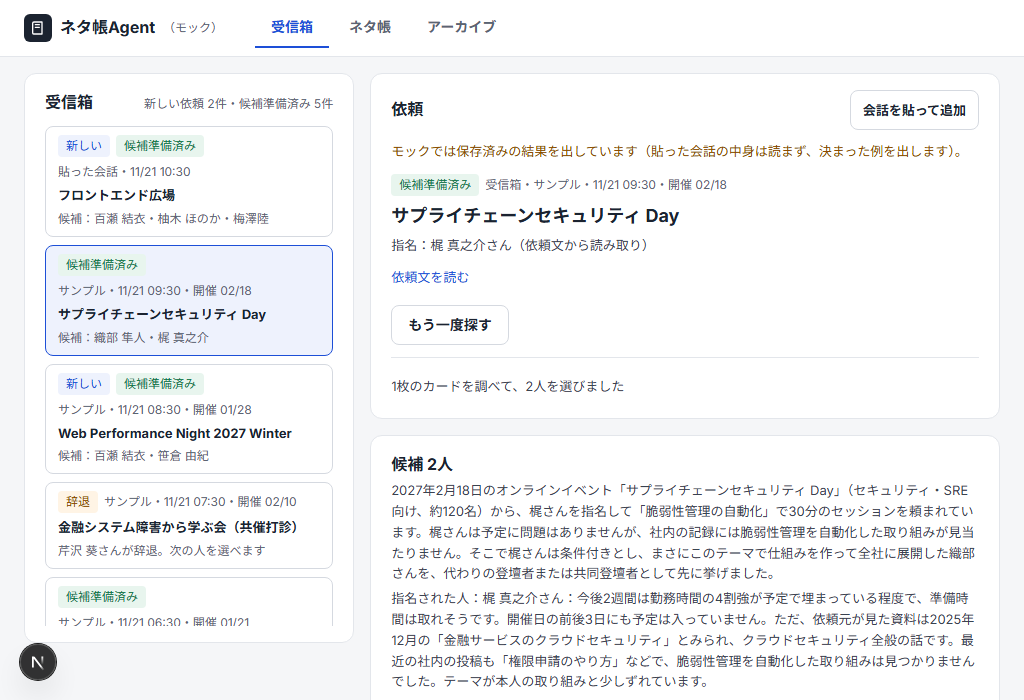
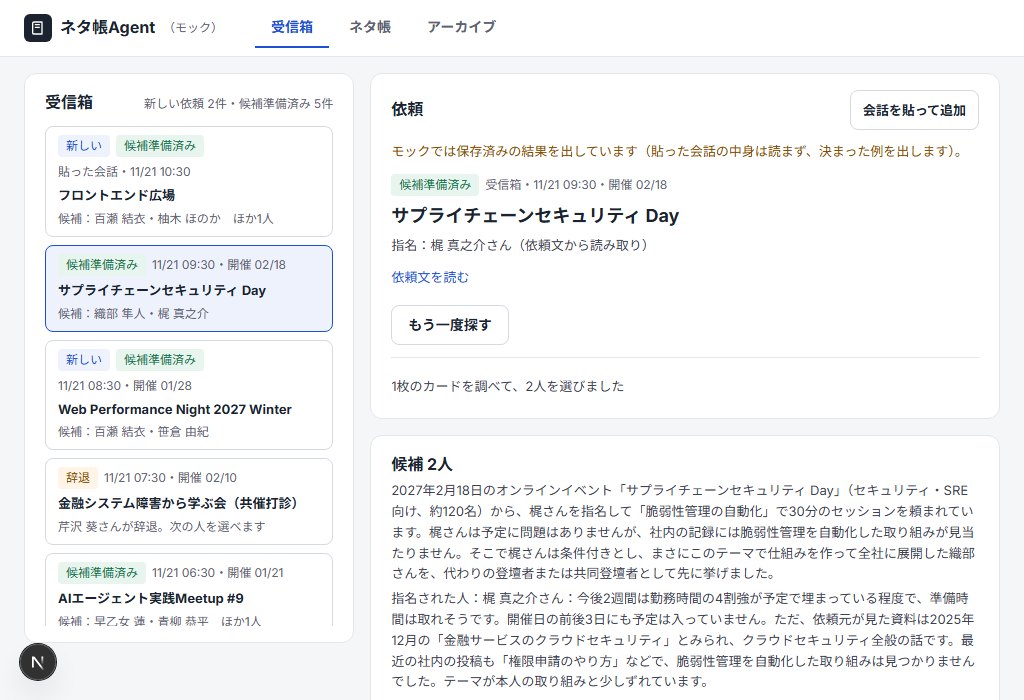
迷う・読みにくいところを見た目だけで直す（docs/ux_review.md の「できれば」）
- 受信箱の一覧：「サンプル」の出どころを出さない、候補は2人まで＋「ほかN人」、準備中は「新しい依頼（読み取り中）」、行に読み上げ用の名前
- 声かけの画面：「声をかける前に」を声かけ文の上に、「最初の下書きに戻す」、入力欄は中身に合わせて伸ばす
- カード詳細：新しいテーマ案は「話せるテーマ案に加える／加えない」
- アンケートの声：行ごとの印と件数の重複を外し、見出しの下の1文だけに
- イベントの改善点：人を攻撃する言葉は隠し、「原文を見る」で開く
- 出し先の注意点：2つまで見せて残りは開く
- 担当者未定のネタ：同じ事業部の人を上に、外のページへのリンクに ↗
- ネタ帳を更新の作業ログ：終わったら最後の1行にたたむ
- 人の画面の見出し：「初登壇・登壇0回」、所属と役職の重複を出さない
- ui-guidelines：人の一覧の1行・確認済みの言い分け・作った人向けの文・読み込み中を今の画面に合わせる
- スクリーンショット：docs/screenshots/ux-polish/（before・after）

Changed region(s): [[0.0312, 0.36, 0.3125, 0.9], [0.5312, 0.24, 0.7188, 0.27], [0.2188, 0.3, 0.2812, 0.33]]

diff --git a/components/Inbox.tsx b/components/Inbox.tsx
@@ -29,8 +29,15 @@ function stageLine(it: BoardListItem): string {
   if (s.stage === "new") return "開いて「ネタ帳から候補を出す」を押すと、候補を準備します";
   if (s.stage === "preparing") return "Agentがネタ帳を探しています";
   if (s.stage === "error") return it.error ?? "候補を出せませんでした";
-  return it.no_fit ? "合う候補は見つかりませんでした（理由を確認できます）" : `候補：${it.candidate_names.join("・")}`;
+  if (it.no_fit) return "合う候補は見つかりませんでした（理由を確認できます）";
+  // 候補は2人まで出して「ほかN人」（名前が途中で切れないように）
+  const shown = it.candidate_names.slice(0, 2).join("・");
+  const more = it.candidate_names.length - 2;
+  return `候補：${shown}${more > 0 ? `　ほか${more}人` : ""}`;
 }
+
+/** 一覧の見出し：準備中でイベント名がまだ読めていないときは、会話の1行目ではなく「新しい依頼（読み取り中）」 */
+export const inboxTitle = (it: Pick<BoardListItem, "title" | "state">) => (it.state.stage === "preparing" ? "新しい依頼（読み取り中）" : it.title);
 
 /** 受信箱：届いた依頼（Slack・手で追加・サンプル）と、今の状態が一目で分かる。押すとその依頼の画面が開く */
 export function Inbox({
@@ -74,16 +81,23 @@ export function Inbox({
         <ul className="inbox-list">
           {items.map((it) => (
             <li key={it.id}>
-              <button type="button" className="inbox-item" aria-current={it.id === openId ? "true" : undefined} onClick={() => onOpen(it.id)}>
+              <button
+                type="button"
+                className="inbox-item"
+                aria-current={it.id === openId ? "true" : undefined}
+                aria-label={`${inboxTitle(it)}（${STAGE_LABEL[it.state.stage]}）`}
+                onClick={() => onOpen(it.id)}
+              >
                 <span className="inbox-marks">
                   {it.is_new && <Tag tone="accent">新しい</Tag>}
                   <StageTag stage={it.state.stage} />
                   <span className="meta">
-                    {sourceLabel(it.source)}・{when(it.received_at)}
+                    {it.source !== "sample" && `${sourceLabel(it.source)}・`}
+                    {when(it.received_at)}
                     {it.event_date ? `・開催 ${md(it.event_date)}` : ""}
                   </span>
                 </span>
-                <span className="strong inbox-title">{it.title}</span>
+                <span className="strong inbox-title">{inboxTitle(it)}</span>
                 <span className={`meta${it.state.stage === "accepted" ? " strong" : ""}`}>{stageLine(it)}</span>
               </button>
             </li>

diff --git a/components/UnassignedCards.tsx b/components/UnassignedCards.tsx
@@ -49,7 +49,11 @@ export function UnassignedCards({
 function Row({ card, people, onAssign }: { card: UnassignedCard; people: PersonRow[]; onAssign: (cardId: string, employeeId: string) => Promise<void> }) {
   // 関わっていそうな人：キーワードが一致した活動（根拠）がある人だけを先に並べる。最初から誰も選ばない（推測で選んでおかない）
   const related = new Set(card.related_employees.map((p) => p.id));
-  const sorted = [...people].sort((a, b) => Number(related.has(b.id)) - Number(related.has(a.id)));
+  // 並び：根拠のある人 → リリースのプロダクトと同じ事業部の人（例：「バクラク契約管理」ならバクラク）→ ほか
+  const product = card.release_notes.map((n) => n.product).join(" ");
+  const sameUnit = (p: PersonRow) => !!p.business_unit && product.includes(p.business_unit);
+  const rank = (p: PersonRow) => (related.has(p.id) ? 0 : sameUnit(p) ? 1 : 2);
+  const sorted = [...people].sort((a, b) => rank(a) - rank(b));
   const [who, setWho] = useState("");
   const [busy, setBusy] = useState(false);
   const [error, setError] = useState<string | null>(null);
@@ -72,8 +76,9 @@ function Row({ card, people, onAssign }: { card: UnassignedCard; people: PersonR
         <p key={n.id}>
           <Tag tone="accent">リリース</Tag>{" "}
           {n.url ? (
-            <a href={n.url} target="_blank" rel="noreferrer" className="strong">
+            <a href={n.url} target="_blank" rel="noreferrer" className="strong" title="公開ページを新しいタブで開きます">
               {n.title}
+              <span aria-hidden="true"> ↗</span>
             </a>
           ) : (
             <span className="strong">{n.title}</span>
@@ -116,7 +121,7 @@ function Row({ card, people, onAssign }: { card: UnassignedCard; people: PersonR
           <option value="">担当者を選ぶ</option>
           {sorted.map((p) => (
             <option key={p.id} value={p.id}>
-              {p.name}（{p.business_unit}）{related.has(p.id) ? "・関わっていそう" : ""}
+              {p.name}（{p.business_unit}）{related.has(p.id) ? "・関わっていそう" : sameUnit(p) ? "・同じ事業部" : ""}
             </option>
           ))}
         </select>

diff --git a/components/Approved.tsx b/components/Approved.tsx
@@ -224,7 +224,7 @@ function OrganizerReply({
           </button>
         )}
         <button type="button" className="btn" disabled={value === text} onClick={() => setValue(text)}>
-          下書きに戻す
+          最初の下書きに戻す
         </button>
       </div>
       {dateSentence && !hasDate && <p className="meta">入れる文：{dateSentence}（本人に確認する前の目安。押したときだけ入れます）</p>}
@@ -240,6 +240,19 @@ function DraftEditor({ draft, note }: { draft: OutreachDraft; note: string | nul
 
   return (
     <>
+      {/* 読む前にコピーしてしまわないよう、「声をかける前に」を声かけ文の上に置く */}
+      {draft.tips_for_pr.length > 0 && (
+        <section className="surface pad-lg tips" aria-labelledby="tips-title">
+          <h3 id="tips-title" className="h3">
+            声をかける前に
+          </h3>
+          <ul className="plain-list small">
+            {draft.tips_for_pr.map((t, i) => (
+              <li key={i}>{t}</li>
+            ))}
+          </ul>
+        </section>
+      )}
       <section className="surface pad-lg" aria-labelledby="draft-title">
         <div className="row-between">
           <h3 id="draft-title" className="h3">
@@ -267,7 +280,7 @@ function DraftEditor({ draft, note }: { draft: OutreachDraft; note: string | nul
               setMessage(draft.message);
             }}
           >
-            下書きに戻す
+            最初の下書きに戻す
           </button>
         </div>
       </section>
@@ -297,16 +310,6 @@ function DraftEditor({ draft, note }: { draft: OutreachDraft; note: string | nul
         <div className="btn-row">
           <CopyButton text={outlineText} label="構成案をコピー" />
         </div>
-        {draft.tips_for_pr.length > 0 && (
-          <div className="tips">
-            <h4 className="h4">声をかける前に</h4>
-            <ul className="plain-list small">
-              {draft.tips_for_pr.map((t, i) => (
-                <li key={i}>{t}</li>
-              ))}
-            </ul>
-          </div>
-        )}
       </section>
     </>
   );

diff --git a/components/SurveyVoices.tsx b/components/SurveyVoices.tsx
@@ -1,7 +1,6 @@
 "use client";
 
 import type { SurveyVoice } from "@/app/_client/types";
-import { Tag } from "./ui";
 
 /**
  * ネタ帳タブの右：アンケートの声。参加者が「今後聞いてみたい話」を、イベント名・日付・件数つきで並べる。
@@ -28,7 +27,7 @@ export function SurveyVoices({
         <div className="cands-head">
           <div className="row-between">
             <h2 id="voices-title" className="h2">
-              アンケートの声 <span className="meta">{voices.length}件・話せる人がいる声 {matched}件</span>
+              アンケートの声 <span className="meta">{voices.length}件{matched < voices.length ? `（話せる人がまだいない声 ${voices.length - matched}件）` : ""}</span>
             </h2>
             <button type="button" className="link" onClick={onClose}>
               閉じる
@@ -36,7 +35,7 @@ export function SurveyVoices({
           </div>
           <p className="meta">イベント後のアンケートの「今後聞いてみたい話」です。分析したイベントの分だけ並びます。</p>
           {voices.some((v) => v.sample) && (
-            <p className="small caveat">架空のアンケートの結果を含みます（保存済みの分析結果。「架空のアンケート」の印が付いた声）。</p>
+            <p className="small caveat">架空のアンケートの結果です。</p>
           )}
         </div>
         {!loaded && <p className="meta pad">読み込んでいます…</p>}
@@ -47,7 +46,7 @@ export function SurveyVoices({
           {voices.map((v, i) => (
             <li key={`${v.event_id}-${i}`} className="cand">
               <p>
-                <Tag tone="accent">アンケートの声</Tag> {v.sample && <Tag>架空のアンケート</Tag>} <span className="strong">{v.text}</span>
+                <span className="strong">{v.text}</span>
                 <span className="meta">　{v.count}件</span>
               </p>
               <p className="meta">

diff --git a/components/Events.tsx b/components/Events.tsx
@@ -227,21 +227,39 @@ function NegList({ title, items }: { title: string; items: OverviewNegative[] })
         <p className="meta">ありませんでした。</p>
       ) : (
         <ul className="neg-list">
-          {items.map((i, k) => (
-            <li key={k}>
-              <span>{i.text}</span>
-              <span className="meta">{i.count > 1 ? `　${i.count}件` : "　1件"}</span>
-              {i.attack && (
-                <>
-                  {" "}
-                  <Tag tone="warn">人を攻撃する言葉（カードには残しません）</Tag>
-                </>
-              )}
-            </li>
-          ))}
+          {items.map((i, k) =>
+            i.attack ? (
+              <AttackItem key={k} text={i.text} count={i.count} />
+            ) : (
+              <li key={k}>
+                <span>{i.text}</span>
+                <span className="meta">{i.count > 1 ? `　${i.count}件` : "　1件"}</span>
+              </li>
+            ),
+          )}
         </ul>
       )}
     </div>
+  );
+}
+
+/** 人を攻撃する言葉は、はじめは隠しておく（押したときだけ原文を出す。カードには残さない） */
+function AttackItem({ text, count }: { text: string; count: number }) {
+  const [open, setOpen] = useState(false);
+  return (
+    <li>
+      {open ? <span>{text}</span> : <span className="meta">（人を攻撃する言葉のため隠しています）</span>}
+      <span className="meta">{`　${count}件`}</span>{" "}
+      <button type="button" className="link" aria-expanded={open} onClick={() => setOpen((x) => !x)}>
+        {open ? "隠す" : "原文を見る"}
+      </button>
+      {open && (
+        <>
+          {" "}
+          <Tag tone="warn">人を攻撃する言葉（カードには残しません）</Tag>
+        </>
+      )}
+    </li>
   );
 }
 

diff --git a/components/RequestInput.tsx b/components/RequestInput.tsx
@@ -2,7 +2,7 @@
 
 import type { BoardDetail, IntakeField } from "@/app/_client/types";
 import { md } from "./labels";
-import { StageTag, sourceLabel } from "./Inbox";
+import { inboxTitle, StageTag, sourceLabel } from "./Inbox";
 import { Spinner, Tag } from "./ui";
 
 /** inbox：受信箱から開いた依頼／custom：手で追加（受信箱に入る）。サンプルの依頼も受信箱に並ぶ（入口は受信箱だけ） */
@@ -89,7 +89,7 @@ export function RequestInput({
           <p className="meta inbox-marks">
             {st && <StageTag stage={st.stage} />}
             <span>
-              受信箱・{sourceLabel(inbox.source)}・{when(inbox.received_at)}
+              受信箱{inbox.source !== "sample" ? `・${sourceLabel(inbox.source)}` : ""}・{when(inbox.received_at)}
               {inbox.event_date ? `・開催 ${md(inbox.event_date)}` : ""}
             </span>
             {inbox.permalink && (
@@ -98,7 +98,7 @@ export function RequestInput({
               </a>
             )}
           </p>
-          <h3 className="req-title">{inbox.title}</h3>
+          <h3 className="req-title">{st ? inboxTitle({ title: inbox.title, state: st }) : inbox.title}</h3>
           {st && st.accepted_by.length > 0 && <p className="small strong">{st.accepted_by.map((p) => `${p.name}さん`).join("・")}が承諾</p>}
           {st && st.stage === "outreach" && <p className="small muted-strong">{st.outreach_to.map((p) => `${p.name}さん`).join("・")}に声かけ中（返事待ち）</p>}
           {st && st.stage === "declined" && <p className="small muted-strong">{st.declined_by.map((p) => `${p.name}さん`).join("・")}が辞退。次の人を選べます</p>}

diff --git a/components/People.tsx b/components/People.tsx
@@ -62,6 +62,7 @@ export function People({
   onUnassigned: () => void;
 }) {
   const [q, setQ] = useState("");
+  const [logOpen, setLogOpen] = useState(false);
   const [filters, setFilters] = useState<Set<Filter>>(new Set());
   const [unit, setUnit] = useState("");
 
@@ -134,12 +135,18 @@ export function People({
       {(log.length > 0 || updating) && (
         <div className="nb-section" aria-live="polite">
           <ol className="log-lines">
-            {log.map((l, i) => (
+            {/* 終わったら最後の1行（結果）にたたむ。途中の行は「詳しく見る」で開く */}
+            {(updating || logOpen ? log : log.slice(-1)).map((l, i) => (
               <li key={i} className={`log-line log-${l.tone}`}>
                 {l.text}
               </li>
             ))}
           </ol>
+          {!updating && log.length > 1 && (
+            <button type="button" className="link small" aria-expanded={logOpen} onClick={() => setLogOpen((x) => !x)}>
+              {logOpen ? "たたむ" : `詳しく見る（${log.length}行）`}
+            </button>
+          )}
           {updating && <Spinner label="活動を読んでいます…" />}
         </div>
       )}

diff --git a/components/PersonDetail.tsx b/components/PersonDetail.tsx
@@ -75,7 +75,16 @@ export function PersonDetail({
           </span>
         </div>
         <p className="meta">
-          {[p.business_unit, p.role, detail.talk_tag, `登壇${p.past_talk_count}回${p.last_talk_date ? `（最終 ${p.last_talk_date}）` : ""}`].filter((x) => x && x.trim()).join("・")}
+          {[
+            p.business_unit,
+            // 役職が所属の名前で始まるとき（「CTO室 エンジニア」）は、所属を重ねない
+            p.role?.startsWith(p.business_unit) ? p.role.slice(p.business_unit.length).trim() : p.role,
+            detail.talk_tag,
+            // 初登壇なら「登壇0回」は同じことなので出さない
+            p.past_talk_count ? `登壇${p.past_talk_count}回${p.last_talk_date ? `（最終 ${p.last_talk_date}）` : ""}` : "",
+          ]
+            .filter((x) => x && x.trim())
+            .join("・")}
         </p>
 
         {!editing ? (

diff --git a/components/CardDetail.tsx b/components/CardDetail.tsx
@@ -204,10 +204,10 @@ export function CardDetail({
                   </span>
                   <span className="btn-row">
                     <button type="button" className="btn btn-primary btn-sm" disabled={busy} onClick={() => run(() => onResolve(t, true))}>
-                      採用
+                      話せるテーマ案に加える
                     </button>
                     <button type="button" className="btn btn-sm" disabled={busy} onClick={() => run(() => onResolve(t, false))}>
-                      却下
+                      加えない
                     </button>
                   </span>
                 </li>

diff --git a/app/globals.css b/app/globals.css
@@ -392,3 +392,6 @@ textarea.input { resize: vertical; }
 @media (max-width: 860px) {
   .side { max-width: none; flex-basis: 100%; position: static; }
 }
+
+/* 声かけ文・主催者への返事の入力欄：中身に合わせて高さを伸ばす（入れ子のスクロールでページが進まないように） */
+.draft-text, .reply-text { field-sizing: content; min-height: 6em; max-height: none; }

diff --git a/docs/ui-guidelines.md b/docs/ui-guidelines.md
@@ -34,7 +34,10 @@
 | アーカイブ | イベントが終わったあと | 左：終わったイベントの一覧（開催日が過ぎた依頼と、過去のイベント）。右：過去のイベントならイベント後の画面（イベント単位の集計だけ：回答数・全体の満足度・良かった点のテーマ・改善点（運営・会場・設備／内容、原文のまま）・次に聞きたいテーマ。登壇者は「誰が何を話したか」だけで、登壇者ごとの点数・不満・良い点は出さない。アンケートの取り込みと分析もここ）、過去の依頼なら日付・登壇者・依頼の結果。以前のヘッダーの「依頼／イベント」の切り替えはこのタブに置き換えた |
 
 - カード詳細（シート）はどのタブからでも開ける。中身（出し先を探す・テーマ案の採用/見送り・カードを直す）は変えない
-- 人の一覧の1行：名前・所属／得意分野（3つまで）／未発信のネタの数／予定の埋まり具合（「予定 7割」。予定が分からなければ「予定 不明」、言葉は行に重ねたときに出す）。印は「今は控えたい」「確認済み」だけ
+- 人の一覧の1行：名前・所属／得意分野（3つまで）／未発信のネタの数（0 のときは出さない）。予定はネタ帳タブには出さない。印は「本人（デモ）」「今は控えたい」「情報を確認済み」だけ
+- 「確認済み」は言い分ける：人は「情報を確認済み」（人の情報を直した）、カードは「内容を確認済み」（カードの中身を確かめた）
+- 作った人向けの文（CSV の列の読み取り、件数の数え方など）は画面に出さない（?debug のときだけ）
+- 読み込みに時間がかかる操作（人・依頼・イベントを開く）は、前の画面のままにせず「読み込んでいます…」を出す
 - 登壇経験の言い方は候補の印（初登壇／半年以内に登壇／登壇経験あり、lib/talkTag.ts）にそろえる。絞り込みも「初登壇」
 - 人の情報を直す：得意分野、登壇の意向（今は受けられる／今は控えたい／未確認）、NGのテーマ。直した項目は「確認済み」になり、Agentは上書きしない。候補を出すときは意向とNGのテーマを使う
 - 開催日が過ぎたかどうかはコードで判定する（依頼の開催日。本文しかない依頼は、本文の日付から読む）
